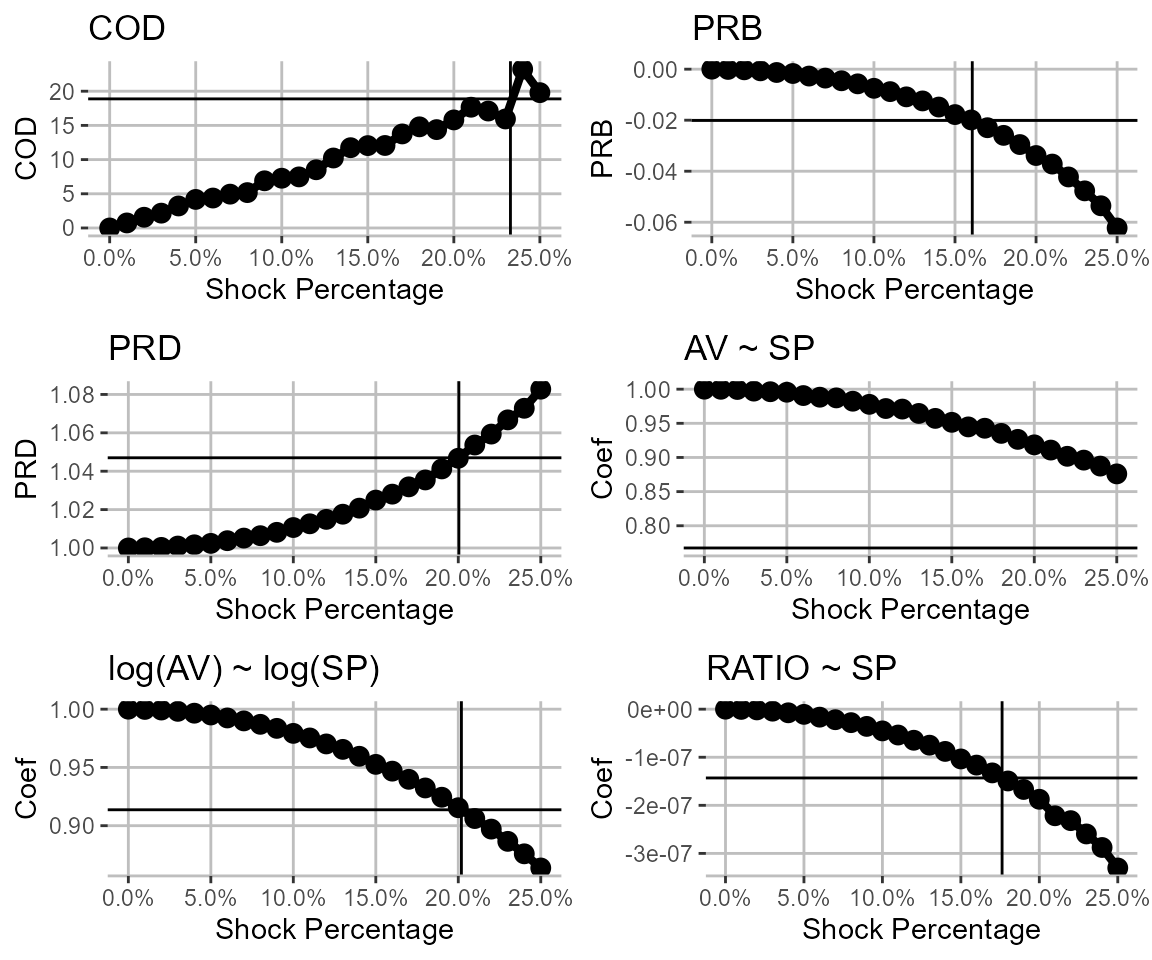
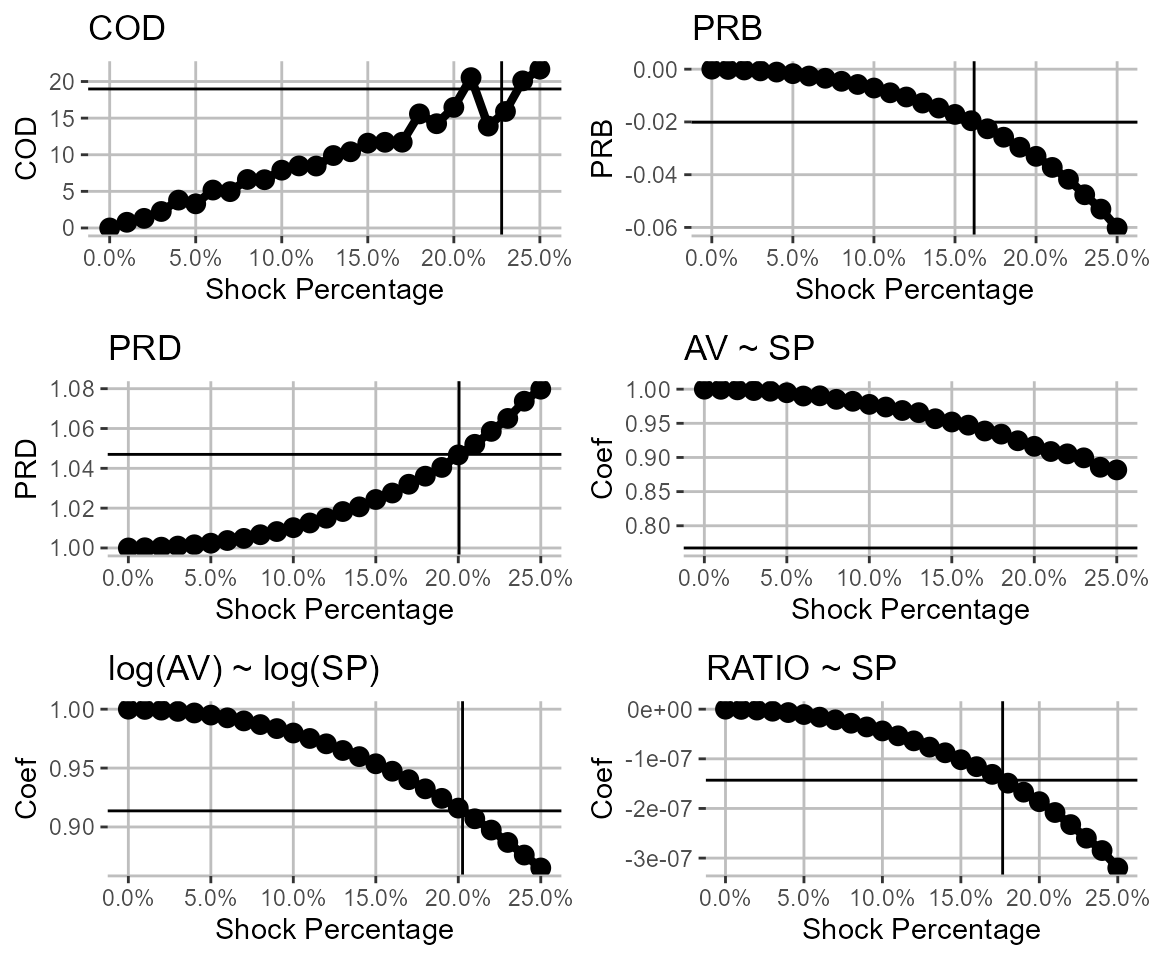
new about page

diff --git a/docs/articles/About.html b/docs/articles/About.html
@@ -5,13 +5,13 @@
 <meta charset="utf-8">
 <meta http-equiv="X-UA-Compatible" content="IE=edge">
 <meta name="viewport" content="width=device-width, initial-scale=1.0">
-<title>Getting Started • cmfproperty</title>
+<title>Why cmfproperty • cmfproperty</title>
 <!-- jquery --><script src="https://cdnjs.cloudflare.com/ajax/libs/jquery/3.4.1/jquery.min.js" integrity="sha256-CSXorXvZcTkaix6Yvo6HppcZGetbYMGWSFlBw8HfCJo=" crossorigin="anonymous"></script><!-- Bootstrap --><link href="https://cdnjs.cloudflare.com/ajax/libs/bootswatch/3.4.0/flatly/bootstrap.min.css" rel="stylesheet" crossorigin="anonymous">
 <script src="https://cdnjs.cloudflare.com/ajax/libs/twitter-bootstrap/3.4.1/js/bootstrap.min.js" integrity="sha256-nuL8/2cJ5NDSSwnKD8VqreErSWHtnEP9E7AySL+1ev4=" crossorigin="anonymous"></script><!-- bootstrap-toc --><link rel="stylesheet" href="../bootstrap-toc.css">
 <script src="../bootstrap-toc.js"></script><!-- Font Awesome icons --><link rel="stylesheet" href="https://cdnjs.cloudflare.com/ajax/libs/font-awesome/5.12.1/css/all.min.css" integrity="sha256-mmgLkCYLUQbXn0B1SRqzHar6dCnv9oZFPEC1g1cwlkk=" crossorigin="anonymous">
 <link rel="stylesheet" href="https://cdnjs.cloudflare.com/ajax/libs/font-awesome/5.12.1/css/v4-shims.min.css" integrity="sha256-wZjR52fzng1pJHwx4aV2AO3yyTOXrcDW7jBpJtTwVxw=" crossorigin="anonymous">
 <!-- clipboard.js --><script src="https://cdnjs.cloudflare.com/ajax/libs/clipboard.js/2.0.6/clipboard.min.js" integrity="sha256-inc5kl9MA1hkeYUt+EC3BhlIgyp/2jDIyBLS6k3UxPI=" crossorigin="anonymous"></script><!-- headroom.js --><script src="https://cdnjs.cloudflare.com/ajax/libs/headroom/0.11.0/headroom.min.js" integrity="sha256-AsUX4SJE1+yuDu5+mAVzJbuYNPHj/WroHuZ8Ir/CkE0=" crossorigin="anonymous"></script><script src="https://cdnjs.cloudflare.com/ajax/libs/headroom/0.11.0/jQuery.headroom.min.js" integrity="sha256-ZX/yNShbjqsohH1k95liqY9Gd8uOiE1S4vZc+9KQ1K4=" crossorigin="anonymous"></script><!-- pkgdown --><link href="../pkgdown.css" rel="stylesheet">
-<script src="../pkgdown.js"></script><meta property="og:title" content="Getting Started">
+<script src="../pkgdown.js"></script><meta property="og:title" content="Why cmfproperty">
 <meta property="og:description" content="cmfproperty">
 <!-- mathjax --><script src="https://cdnjs.cloudflare.com/ajax/libs/mathjax/2.7.5/MathJax.js" integrity="sha256-nvJJv9wWKEm88qvoQl9ekL2J+k/RWIsaSScxxlsrv8k=" crossorigin="anonymous"></script><script src="https://cdnjs.cloudflare.com/ajax/libs/mathjax/2.7.5/config/TeX-AMS-MML_HTMLorMML.js" integrity="sha256-84DKXVJXs0/F8OTMzX4UR909+jtl4G7SPypPavF+GfA=" crossorigin="anonymous"></script><!--[if lt IE 9]>
 <script src="https://oss.maxcdn.com/html5shiv/3.7.3/html5shiv.min.js"></script>
@@ -91,41 +91,67 @@
 
       
 
-      </header><script src="cmfproperty_files/header-attrs-2.7/header-attrs.js"></script><div class="row">
+      </header><script src="About_files/header-attrs-2.7/header-attrs.js"></script><div class="row">
   <div class="col-md-9 contents">
     <div class="page-header toc-ignore">
-      <h1 data-toc-skip>Getting Started</h1>
+      <h1 data-toc-skip>Why cmfproperty</h1>
             
       
-      <small class="dont-index">Source: <a href="https://github.com/cmf-uchicago/cmfproperty/blob/master/vignettes/cmfproperty.Rmd"><code>vignettes/cmfproperty.Rmd</code></a></small>
-      <div class="hidden name"><code>cmfproperty.Rmd</code></div>
+      <small class="dont-index">Source: <a href="https://github.com/cmf-uchicago/cmfproperty/blob/master/vignettes/About.Rmd"><code>vignettes/About.Rmd</code></a></small>
+      <div class="hidden name"><code>About.Rmd</code></div>
 
     </div>
 
     
     
-<div id="what-and-who-is-cmfproperty-for" class="section level1">
+<div id="why-cmfproperty" class="section level1">
 <h1 class="hasAnchor">
-<a href="#what-and-who-is-cmfproperty-for" class="anchor"></a>What and Who is <code>cmfproperty</code> for?</h1>
-<p>The property tax is the single largest source of locally generated revenue for American local governments. Cities, counties, school districts, and special districts raise roughly $500 billion per year in property taxes according to <a href="https://www.urban.org/policy-centers/cross-center-initiatives/state-and-local-finance-initiative/projects/state-and-local-backgrounders/property-taxes">The Urban Institute</a>.</p>
-<p>Property taxes are supposed to be a <em>flat tax</em> where everyone pays the same rate regardless of how much their home is worth. In practice, property taxes are regressive in almost every single county in America, according to a <a href="https://harris.uchicago.edu/research-impact/centers-institutes/center-municipal-finance">recent nationwide analysis</a> by the Center for Municipal Finance which analyzed 40 million property sales. For an individual homeowner, understanding if their home was assessed fairly is relatively difficult. A homeowner only knows what their home is assessed for and only knows how <em>accurately</em> their home was assessed if it sells in a given year.</p>
-<p><code>cmfproperty</code> provides the necessary tools for the public, assessors, and public interest groups to evaluate the effectiveness of assessment systems by removing subject-matter and technical barriers and producing automated contextualized reports. These reports analyze the assessor’s own data using industry standards and visualizations designed to illustrate inequities <strong>and</strong> package the information in an easy to use format.</p>
+<a href="#why-cmfproperty" class="anchor"></a>Why <code>cmfproperty</code>
+</h1>
+<p>Property tax analysis and sale ratios studies are highly standardized processes ripe for automation. This package implements the IAAO <a href="https://www.iaao.org/media/standards/Standard_on_Ratio_Studies.pdf">standards</a> and generates a sale ratios study in seconds from user-provided data.</p>
+<p>This tool has been critical for the work of the <a href="https://harris.uchicago.edu/research-impact/centers-institutes/center-municipal-finance">Center for Municipal Finance</a> as we produce thousands of sale ratios studies annually. This open-source tool incorporates what we have learned in this work and is designed to enable Assessors and members of the public to analyze their own data.</p>
 </div>
-<div id="how-do-i-use-cmfproperty" class="section level1">
+<div id="how-does-this-work" class="section level1">
 <h1 class="hasAnchor">
-<a href="#how-do-i-use-cmfproperty" class="anchor"></a>How do I use <code>cmfproperty</code>?</h1>
-<p>First, check out the <a href="Preprocessing.html">article on preprocessing</a> which outlines data requirements and examples. In order to analyze assessments, data is required to have at least three columns: Sale Year, Sale Price, and Assessed Value.</p>
+<a href="#how-does-this-work" class="anchor"></a>How does this work?</h1>
+<p>There are four steps to utilize this report:</p>
+<ol style="list-style-type: decimal">
+<li>Install R &amp; R Studio</li>
+<li>Install devtools and <code>cmfproperty</code>
+</li>
+<li>Preprocess your data</li>
+<li>Use <code>cmfproperty</code> to create <code>ratios</code> and run <code>make_report</code>
+</li>
+</ol>
+</div>
+<div id="package-installation-steps-1-and-2" class="section level1">
+<h1 class="hasAnchor">
+<a href="#package-installation-steps-1-and-2" class="anchor"></a>Package Installation (Steps 1 and 2)</h1>
+<p><code>cmfproperty</code> uses the R programming language. R is an open-source language which can be easily installed on any computer. We recommend that you install <a href="https://www.rstudio.com/products/rstudio/download/#download">RStudio</a> and <a href="https://cran.rstudio.com/">R</a>.</p>
+<p>Installing <code>cmfproperty</code> requires the <code>devtools</code> package which can be installed as follows:</p>
 <div class="sourceCode" id="cb1"><pre class="downlit sourceCode r">
-<code class="sourceCode R"><span class="fu"><a href="https://rdrr.io/r/utils/head.html">head</a></span><span class="op">(</span><span class="fu">cmfproperty</span><span class="fu">::</span><span class="va"><a href="../reference/example_data.html">example_data</a></span><span class="op">)</span>
-<span class="co">#&gt;              PIN SALE_YEAR SALE_PRICE ASSESSED_VALUE</span>
-<span class="co">#&gt; 1 17273100931118      2015      53000          33860</span>
-<span class="co">#&gt; 2 18013090421010      2018      80000          60390</span>
-<span class="co">#&gt; 3 12111190201042      2018     118000         108300</span>
-<span class="co">#&gt; 4 13093160601015      2017     125500          87200</span>
-<span class="co">#&gt; 5 14322110150000      2018    3705000        3670740</span>
-<span class="co">#&gt; 6 27021200080000      2016     345000         267280</span></code></pre></div>
-<p>After gathering data in this form, we have to identify the three required columns (sales, assessments, and sale year) for the package using <code><a href="../reference/reformat_data.html">cmfproperty::reformat_data</a></code>.</p>
+<code class="sourceCode R"><span class="fu"><a href="https://rdrr.io/r/utils/install.packages.html">install.packages</a></span><span class="op">(</span><span class="st">"devtools"</span><span class="op">)</span></code></pre></div>
+<p>Once <code>devtools</code> is installed, our package can be installed from our github repository as follows:</p>
 <div class="sourceCode" id="cb2"><pre class="downlit sourceCode r">
+<code class="sourceCode R"><span class="fu">devtools</span><span class="fu">::</span><span class="fu"><a href="https://devtools.r-lib.org//reference/remote-reexports.html">install_github</a></span><span class="op">(</span><span class="st">"cmf-uchicago/cmfproperty"</span><span class="op">)</span></code></pre></div>
+</div>
+<div id="data-preprocessing-step-3" class="section level1">
+<h1 class="hasAnchor">
+<a href="#data-preprocessing-step-3" class="anchor"></a>Data Preprocessing (Step 3)</h1>
+<p>To use this package we need to create a data frame where each row is the sale of individual property matched to its assessment at the time of sale. This process is highly dependent on how your data is structured. Examples can be found in <a href="preprocessing.html">Data Preprocessing</a>.</p>
+<p>Your final data set must have the following columns:</p>
+<ul>
+<li>Sale Price</li>
+<li>Assessed Value</li>
+<li>Sale Year</li>
+</ul>
+<p>We highly recommend that you also include a column with a unique identifier such as parcel number or pin number.</p>
+</div>
+<div id="running-the-report-step-4" class="section level1">
+<h1 class="hasAnchor">
+<a href="#running-the-report-step-4" class="anchor"></a>Running the Report (Step 4)</h1>
+<p>After gathering data in this form, we have to identify the three required columns (sales, assessments, and sale year) for the package using <code><a href="../reference/reformat_data.html">cmfproperty::reformat_data</a></code>.</p>
+<div class="sourceCode" id="cb3"><pre class="downlit sourceCode r">
 <code class="sourceCode R"><span class="va">ratios</span> <span class="op">&lt;-</span>
   <span class="fu">cmfproperty</span><span class="fu">::</span><span class="fu"><a href="../reference/reformat_data.html">reformat_data</a></span><span class="op">(</span>
     data <span class="op">=</span> <span class="fu">cmfproperty</span><span class="fu">::</span><span class="va"><a href="../reference/example_data.html">example_data</a></span>,
@@ -152,62 +178,28 @@
 <span class="co">#&gt; 6                       1      376080.37          291358.73</span></code></pre></div>
 <p>We denote data processed by <code><a href="../reference/reformat_data.html">cmfproperty::reformat_data</a></code> as <code>ratios</code> throughout the documentation. <code>ratios</code> includes the additional calculated fields needed to complete the study.</p>
 <p>There’s one more step to get the automated report:</p>
-<div class="sourceCode" id="cb3"><pre class="downlit sourceCode r">
+<div class="sourceCode" id="cb4"><pre class="downlit sourceCode r">
 <code class="sourceCode R"><span class="fu">cmfproperty</span><span class="fu">::</span><span class="fu"><a href="../reference/make_report.html">make_report</a></span><span class="op">(</span><span class="va">ratios</span>, 
                          jurisdiction_name <span class="op">=</span> <span class="st">"Cook County, Illinois"</span><span class="op">)</span></code></pre></div>
 <p>The report will be saved in your working directory or a specific directory can be provided.</p>
-<div class="sourceCode" id="cb4"><pre class="downlit sourceCode r">
+<div class="sourceCode" id="cb5"><pre class="downlit sourceCode r">
 <code class="sourceCode R"><span class="fu">cmfproperty</span><span class="fu">::</span><span class="fu"><a href="../reference/make_report.html">make_report</a></span><span class="op">(</span><span class="va">ratios</span>, 
                          jurisdiction_name <span class="op">=</span> <span class="st">"Cook County, Illinois"</span>,
                          output_dir <span class="op">=</span> <span class="st">"~/Desktop/"</span><span class="op">)</span></code></pre></div>
 <p>Check out an example report <a href="https://cmf-uchicago.github.io/Cook%20County,%20Illinois.html">here</a>.</p>
 </div>
-<div id="how-does-this-work" class="section level1">
+<div id="learn-more" class="section level1">
 <h1 class="hasAnchor">
-<a href="#how-does-this-work" class="anchor"></a>How does this work?</h1>
-<p>Check out our <a href="Methods.html">methods</a> and information on <a href="Figures.html">figures</a> in addition to function-level <a href="https://cmf-uchicago.github.io/cmfproperty/reference/index.html">documentation</a>. The core unit of analysis that we use (and is standard) is the Sales Ratio. A sales ratio is a calculated ratio between the sale price and assessed value at the time of sale for an individual property. Properties should be assessed at their <strong>fair market value</strong> which is defined as the sale price when sold between two unrelated parties in an <strong>arm’s length transaction</strong>. We then apply the standard method to determine if a sale is arm’s length from the International Association of Assessing Officers.</p>
-<p>If you would like to use our package to make your own report, simply take <code>ratios</code> and create <code>stats</code>.</p>
-<div class="sourceCode" id="cb5"><pre class="downlit sourceCode r">
-<code class="sourceCode R"><span class="va">stats</span> <span class="op">&lt;-</span> <span class="fu">cmfproperty</span><span class="fu">::</span><span class="fu"><a href="../reference/calc_iaao_stats.html">calc_iaao_stats</a></span><span class="op">(</span><span class="va">ratios</span><span class="op">)</span>
-<span class="fu"><a href="https://rdrr.io/r/utils/head.html">head</a></span><span class="op">(</span><span class="va">stats</span><span class="op">)</span>
-<span class="co">#&gt;       N     COD COD_SE    PRD PRD_SE     PRB PRB_SE  q1_ratio median_ratio</span>
-<span class="co">#&gt; 1 51879 19.6112 6.3815 1.0805 0.0066 -0.0514 0.0012 0.7758364    0.9093448</span>
-<span class="co">#&gt; 2 62852 20.2488 6.2768 1.0593 0.0102 -0.0462 0.0011 0.7705720    0.9001375</span>
-<span class="co">#&gt; 3 65961 20.1329 6.3062 1.0561 0.0072 -0.0269 0.0011 0.7428108    0.8732099</span>
-<span class="co">#&gt; 4 65298 18.6079 5.2675 1.0238 0.0036  0.0133 0.0010 0.7470336    0.8856039</span>
-<span class="co">#&gt; 5 62041 18.1365 5.4413 1.0392 0.0138  0.0098 0.0010 0.7681042    0.9035000</span>
-<span class="co">#&gt;   q3_ratio q1_sale median_sale q3_sale q1_assessed_value median_assessed_value</span>
-<span class="co">#&gt; 1 1.057180  148000      230000  375000          136670.0                213430</span>
-<span class="co">#&gt; 2 1.060422  148000      229900  365000          133940.0                209150</span>
-<span class="co">#&gt; 3 1.031267  155000      235000  365000          136960.0                209380</span>
-<span class="co">#&gt; 4 1.021504  159642      239900  370000          132382.5                210645</span>
-<span class="co">#&gt; 5 1.036399  164900      245000  372000          140220.0                217690</span>
-<span class="co">#&gt;   q3_assessed_value Year</span>
-<span class="co">#&gt; 1          331235.0 2015</span>
-<span class="co">#&gt; 2          321720.0 2016</span>
-<span class="co">#&gt; 3          316300.0 2017</span>
-<span class="co">#&gt; 4          331257.5 2018</span>
-<span class="co">#&gt; 5          336480.0 2019</span></code></pre></div>
-<p>With <code>stats</code> and <code>ratios</code>, you have the necessary tools for all the forms of analysis we present. For example,</p>
-<div class="sourceCode" id="cb6"><pre class="downlit sourceCode r">
-<code class="sourceCode R"><span class="va">output</span> <span class="op">&lt;-</span> <span class="fu"><a href="../reference/diagnostic_plots.html">diagnostic_plots</a></span><span class="op">(</span><span class="va">stats</span>, 
-                           <span class="va">ratios</span>, 
-                           min_reporting_yr <span class="op">=</span> <span class="fl">2015</span>, 
-                           max_reporting_yr <span class="op">=</span> <span class="fl">2019</span><span class="op">)</span>
-
-<span class="va">output</span><span class="op">[[</span><span class="fl">1</span><span class="op">]</span><span class="op">]</span></code></pre></div>
-<p><img src="cmfproperty_files/figure-html/unnamed-chunk-7-1.png" width="700"></p>
-</div>
-<div id="report-diagnostic" class="section level1">
-<h1 class="hasAnchor">
-<a href="#report-diagnostic" class="anchor"></a>Report Diagnostic</h1>
-<p>We also present a series of diagnostic graphs to evaluate data quality, especially unexpected year-to-year changes. The diagnostic section can optionally be included as an appendix to the report as follows.</p>
-<div class="sourceCode" id="cb7"><pre class="downlit sourceCode r">
-<code class="sourceCode R"><span class="fu">cmfproperty</span><span class="fu">::</span><span class="fu"><a href="../reference/make_report.html">make_report</a></span><span class="op">(</span><span class="va">ratios</span>, 
-                         jurisdiction_name <span class="op">=</span> <span class="st">"Cook County, Illinois Diagnostic"</span>,
-                         output_dir <span class="op">=</span> <span class="st">"~/../Documents/GitHub/cmf-uchicago.github.io/"</span>,
-                         diagnostic <span class="op">=</span> <span class="cn">TRUE</span><span class="op">)</span></code></pre></div>
-<p>Check out a report on the example data with a diagnostic section <a href="https://cmf-uchicago.github.io/Cook%20County%2C%20Illinois%20Diagnostic.html#5_data_diagnostics">here</a>.</p>
+<a href="#learn-more" class="anchor"></a>Learn More</h1>
+<ul>
+<li><a href="index.html">Basic Usage</a></li>
+<li><a href="cmfproperty.html">Detailed Usage</a></li>
+<li><a href="preprocessing.html">Data Preprocessing</a></li>
+<li><a href="methods.html">Methods</a></li>
+<li><a href="figures.html">Example Figures</a></li>
+<li><a href="https://cmf-uchicago.github.io/Cook%20County,%20Illinois.html">Example Report</a></li>
+<li><a href="reference.html">Reference</a></li>
+</ul>
 </div>
   </div>
 

diff --git a/docs/articles/Figures.html b/docs/articles/Figures.html
@@ -65,6 +65,9 @@
     <li>
       <a href="../articles/Figures.html">List of Figures</a>
     </li>
+    <li>
+      <a href="../articles/About.html">About</a>
+    </li>
   </ul>
 </li>
 <li>
@@ -123,7 +126,7 @@
 <code class="sourceCode R"><span class="fu">rmarkdown</span><span class="fu">::</span><span class="fu"><a href="https://pkgs.rstudio.com/rmarkdown/reference/paged_table.html">paged_table</a></span><span class="op">(</span><span class="va">stats</span><span class="op">)</span></code></pre></div>
 <div data-pagedtable="false">
 <script data-pagedtable-source type="application/json">
-{"columns":[{"label":["N"],"name":[1],"type":["int"],"align":["right"]},{"label":["COD"],"name":[2],"type":["dbl"],"align":["right"]},{"label":["COD_SE"],"name":[3],"type":["dbl"],"align":["right"]},{"label":["PRD"],"name":[4],"type":["dbl"],"align":["right"]},{"label":["PRD_SE"],"name":[5],"type":["dbl"],"align":["right"]},{"label":["PRB"],"name":[6],"type":["dbl"],"align":["right"]},{"label":["PRB_SE"],"name":[7],"type":["dbl"],"align":["right"]},{"label":["q1_ratio"],"name":[8],"type":["dbl"],"align":["right"]},{"label":["median_ratio"],"name":[9],"type":["dbl"],"align":["right"]},{"label":["q3_ratio"],"name":[10],"type":["dbl"],"align":["right"]},{"label":["q1_sale"],"name":[11],"type":["dbl"],"align":["right"]},{"label":["median_sale"],"name":[12],"type":["dbl"],"align":["right"]},{"label":["q3_sale"],"name":[13],"type":["dbl"],"align":["right"]},{"label":["q1_assessed_value"],"name":[14],"type":["dbl"],"align":["right"]},{"label":["median_assessed_value"],"name":[15],"type":["dbl"],"align":["right"]},{"label":["q3_assessed_value"],"name":[16],"type":["dbl"],"align":["right"]},{"label":["Year"],"name":[17],"type":["dbl"],"align":["right"]}],"data":[{"1":"51879","2":"19.2421","3":"5.8254","4":"1.1094","5":"0.0152","6":"-0.0514","7":"0.0012","8":"0.7758364","9":"0.9093448","10":"1.057180","11":"148000","12":"230000","13":"375000","14":"136670.0","15":"213430","16":"331235.0","17":"2015"},{"1":"62852","2":"19.7309","3":"6.4748","4":"1.0880","5":"0.0175","6":"-0.0462","7":"0.0011","8":"0.7705720","9":"0.9001375","10":"1.060422","11":"148000","12":"229900","13":"365000","14":"133940.0","15":"209150","16":"321720.0","17":"2016"},{"1":"65961","2":"19.8891","3":"5.9671","4":"1.0588","5":"0.0088","6":"-0.0269","7":"0.0011","8":"0.7428108","9":"0.8732099","10":"1.031267","11":"155000","12":"235000","13":"365000","14":"136960.0","15":"209380","16":"316300.0","17":"2017"},{"1":"65298","2":"18.5963","3":"5.5838","4":"1.0266","5":"0.0099","6":"0.0133","7":"0.0010","8":"0.7470336","9":"0.8856039","10":"1.021504","11":"159642","12":"239900","13":"370000","14":"132382.5","15":"210645","16":"331257.5","17":"2018"},{"1":"62041","2":"18.0511","3":"4.9163","4":"1.0176","5":"0.0060","6":"0.0098","7":"0.0010","8":"0.7681042","9":"0.9035000","10":"1.036399","11":"164900","12":"245000","13":"372000","14":"140220.0","15":"217690","16":"336480.0","17":"2019"}],"options":{"columns":{"min":{},"max":[10]},"rows":{"min":[10],"max":[10]},"pages":{}}}
+{"columns":[{"label":["N"],"name":[1],"type":["int"],"align":["right"]},{"label":["COD"],"name":[2],"type":["dbl"],"align":["right"]},{"label":["COD_SE"],"name":[3],"type":["dbl"],"align":["right"]},{"label":["PRD"],"name":[4],"type":["dbl"],"align":["right"]},{"label":["PRD_SE"],"name":[5],"type":["dbl"],"align":["right"]},{"label":["PRB"],"name":[6],"type":["dbl"],"align":["right"]},{"label":["PRB_SE"],"name":[7],"type":["dbl"],"align":["right"]},{"label":["q1_ratio"],"name":[8],"type":["dbl"],"align":["right"]},{"label":["median_ratio"],"name":[9],"type":["dbl"],"align":["right"]},{"label":["q3_ratio"],"name":[10],"type":["dbl"],"align":["right"]},{"label":["q1_sale"],"name":[11],"type":["dbl"],"align":["right"]},{"label":["median_sale"],"name":[12],"type":["dbl"],"align":["right"]},{"label":["q3_sale"],"name":[13],"type":["dbl"],"align":["right"]},{"label":["q1_assessed_value"],"name":[14],"type":["dbl"],"align":["right"]},{"label":["median_assessed_value"],"name":[15],"type":["dbl"],"align":["right"]},{"label":["q3_assessed_value"],"name":[16],"type":["dbl"],"align":["right"]},{"label":["Year"],"name":[17],"type":["dbl"],"align":["right"]}],"data":[{"1":"51879","2":"19.6120","3":"6.1534","4":"1.0595","5":"0.0158","6":"-0.0514","7":"0.0012","8":"0.7758364","9":"0.9093448","10":"1.057180","11":"148000","12":"230000","13":"375000","14":"136670.0","15":"213430","16":"331235.0","17":"2015"},{"1":"62852","2":"20.1355","3":"6.4729","4":"1.0591","5":"0.0048","6":"-0.0462","7":"0.0011","8":"0.7705720","9":"0.9001375","10":"1.060422","11":"148000","12":"229900","13":"365000","14":"133940.0","15":"209150","16":"321720.0","17":"2016"},{"1":"65961","2":"20.2388","3":"6.1611","4":"1.0356","5":"0.0090","6":"-0.0269","7":"0.0011","8":"0.7428108","9":"0.8732099","10":"1.031267","11":"155000","12":"235000","13":"365000","14":"136960.0","15":"209380","16":"316300.0","17":"2017"},{"1":"65298","2":"18.5243","3":"5.6507","4":"1.0101","5":"0.0098","6":"0.0133","7":"0.0010","8":"0.7470336","9":"0.8856039","10":"1.021504","11":"159642","12":"239900","13":"370000","14":"132382.5","15":"210645","16":"331257.5","17":"2018"},{"1":"62041","2":"17.7419","3":"5.3419","4":"1.0066","5":"0.0057","6":"0.0098","7":"0.0010","8":"0.7681042","9":"0.9035000","10":"1.036399","11":"164900","12":"245000","13":"372000","14":"140220.0","15":"217690","16":"336480.0","17":"2019"}],"options":{"columns":{"min":{},"max":[10]},"rows":{"min":[10],"max":[10]},"pages":{}}}
   </script>
 </div>
 </div>
@@ -528,7 +531,7 @@ AV ~ SP + low + high + low * SP + high * SP
 <a href="#coefficient-of-dispersion-cod" class="anchor"></a>Coefficient of Dispersion (COD)</h2>
 <div class="sourceCode" id="cb6"><pre class="downlit sourceCode r">
 <code class="sourceCode R"><span class="fu"><a href="https://rdrr.io/r/base/print.html">print</a></span><span class="op">(</span><span class="va">iaao_rslt</span><span class="op">[[</span><span class="fl">1</span><span class="op">]</span><span class="op">]</span><span class="op">)</span>
-<span class="co">#&gt; [1] "For 2019, the COD in Cook County, Illinois was 18.05 which &lt;b&gt;did not meet&lt;/b&gt; the IAAO standard for uniformity. "</span>
+<span class="co">#&gt; [1] "For 2019, the COD in Cook County, Illinois was 17.74 which &lt;b&gt;did not meet&lt;/b&gt; the IAAO standard for uniformity. "</span>
 <span class="va">iaao_rslt</span><span class="op">[[</span><span class="fl">2</span><span class="op">]</span><span class="op">]</span></code></pre></div>
 <p><img src="Figures_files/figure-html/codgraph-1.png" width="576"></p>
 </div>
@@ -537,7 +540,7 @@ AV ~ SP + low + high + low * SP + high * SP
 <a href="#price-related-differential-prd" class="anchor"></a>Price-Related Differential (PRD)</h2>
 <div class="sourceCode" id="cb7"><pre class="downlit sourceCode r">
 <code class="sourceCode R"><span class="fu"><a href="https://rdrr.io/r/base/print.html">print</a></span><span class="op">(</span><span class="va">iaao_rslt</span><span class="op">[[</span><span class="fl">3</span><span class="op">]</span><span class="op">]</span><span class="op">)</span>
-<span class="co">#&gt; [1] " In 2019, the PRD in  Cook County, Illinois, was 1.018 which &lt;b&gt;meets &lt;/b&gt; the IAAO standard for vertical equity."</span>
+<span class="co">#&gt; [1] " In 2019, the PRD in  Cook County, Illinois, was 1.007 which &lt;b&gt;meets &lt;/b&gt; the IAAO standard for vertical equity."</span>
 <span class="va">iaao_rslt</span><span class="op">[[</span><span class="fl">4</span><span class="op">]</span><span class="op">]</span></code></pre></div>
 <p><img src="Figures_files/figure-html/prdgraph-1.png" width="576"></p>
 </div>

diff --git a/docs/articles/About_files/header-attrs-2.7/header-attrs.js b/docs/articles/About_files/header-attrs-2.7/header-attrs.js
@@ -1,0 +1,12 @@
+// Pandoc 2.9 adds attributes on both header and div. We remove the former (to
+// be compatible with the behavior of Pandoc < 2.8).
+document.addEventListener('DOMContentLoaded', function(e) {
+  var hs = document.querySelectorAll("div.section[class*='level'] > :first-child");
+  var i, h, a;
+  for (i = 0; i < hs.length; i++) {
+    h = hs[i];
+    if (!/^h[1-6]$/i.test(h.tagName)) continue;  // it should be a header h1-h6
+    a = h.attributes;
+    while (a.length > 0) h.removeAttribute(a[0].name);
+  }
+});

diff --git a/docs/articles/index.html b/docs/articles/index.html
@@ -105,6 +105,9 @@
     <li>
       <a href="../articles/Figures.html">List of Figures</a>
     </li>
+    <li>
+      <a href="../articles/About.html">About</a>
+    </li>
   </ul>
 </li>
 <li>
@@ -139,6 +142,8 @@
       <p class="section-desc"></p>
 
       <dl>
+        <dt><a href="About.html">Why cmfproperty</a></dt>
+        <dd></dt>
         <dt><a href="cmfproperty.html">Getting Started</a></dt>
         <dd></dt>
         <dt><a href="Figures.html">Figures</a></dt>

diff --git a/docs/reference/binned_scatter.html b/docs/reference/binned_scatter.html
@@ -106,6 +106,9 @@
     <li>
       <a href="../articles/Figures.html">List of Figures</a>
     </li>
+    <li>
+      <a href="../articles/About.html">About</a>
+    </li>
   </ul>
 </li>
 <li>

diff --git a/docs/reference/calc_iaao_stats.html b/docs/reference/calc_iaao_stats.html
@@ -106,6 +106,9 @@
     <li>
       <a href="../articles/Figures.html">List of Figures</a>
     </li>
+    <li>
+      <a href="../articles/About.html">About</a>
+    </li>
   </ul>
 </li>
 <li>

diff --git a/docs/reference/diagnostic_plots.html b/docs/reference/diagnostic_plots.html
@@ -106,6 +106,9 @@
     <li>
       <a href="../articles/Figures.html">List of Figures</a>
     </li>
+    <li>
+      <a href="../articles/About.html">About</a>
+    </li>
   </ul>
 </li>
 <li>

diff --git a/docs/reference/example_data.html b/docs/reference/example_data.html
@@ -106,6 +106,9 @@
     <li>
       <a href="../articles/Figures.html">List of Figures</a>
     </li>
+    <li>
+      <a href="../articles/About.html">About</a>
+    </li>
   </ul>
 </li>
 <li>

diff --git a/docs/reference/iaao_graphs.html b/docs/reference/iaao_graphs.html
@@ -106,6 +106,9 @@
     <li>
       <a href="../articles/Figures.html">List of Figures</a>
     </li>
+    <li>
+      <a href="../articles/About.html">About</a>
+    </li>
   </ul>
 </li>
 <li>

diff --git a/docs/reference/index.html b/docs/reference/index.html
@@ -105,6 +105,9 @@
     <li>
       <a href="../articles/Figures.html">List of Figures</a>
     </li>
+    <li>
+      <a href="../articles/About.html">About</a>
+    </li>
   </ul>
 </li>
 <li>

diff --git a/docs/reference/make_report.html b/docs/reference/make_report.html
@@ -106,6 +106,9 @@
     <li>
       <a href="../articles/Figures.html">List of Figures</a>
     </li>
+    <li>
+      <a href="../articles/About.html">About</a>
+    </li>
   </ul>
 </li>
 <li>

diff --git a/docs/reference/monte_carlo_graphs.html b/docs/reference/monte_carlo_graphs.html
@@ -106,6 +106,9 @@
     <li>
       <a href="../articles/Figures.html">List of Figures</a>
     </li>
+    <li>
+      <a href="../articles/About.html">About</a>
+    </li>
   </ul>
 </li>
 <li>
